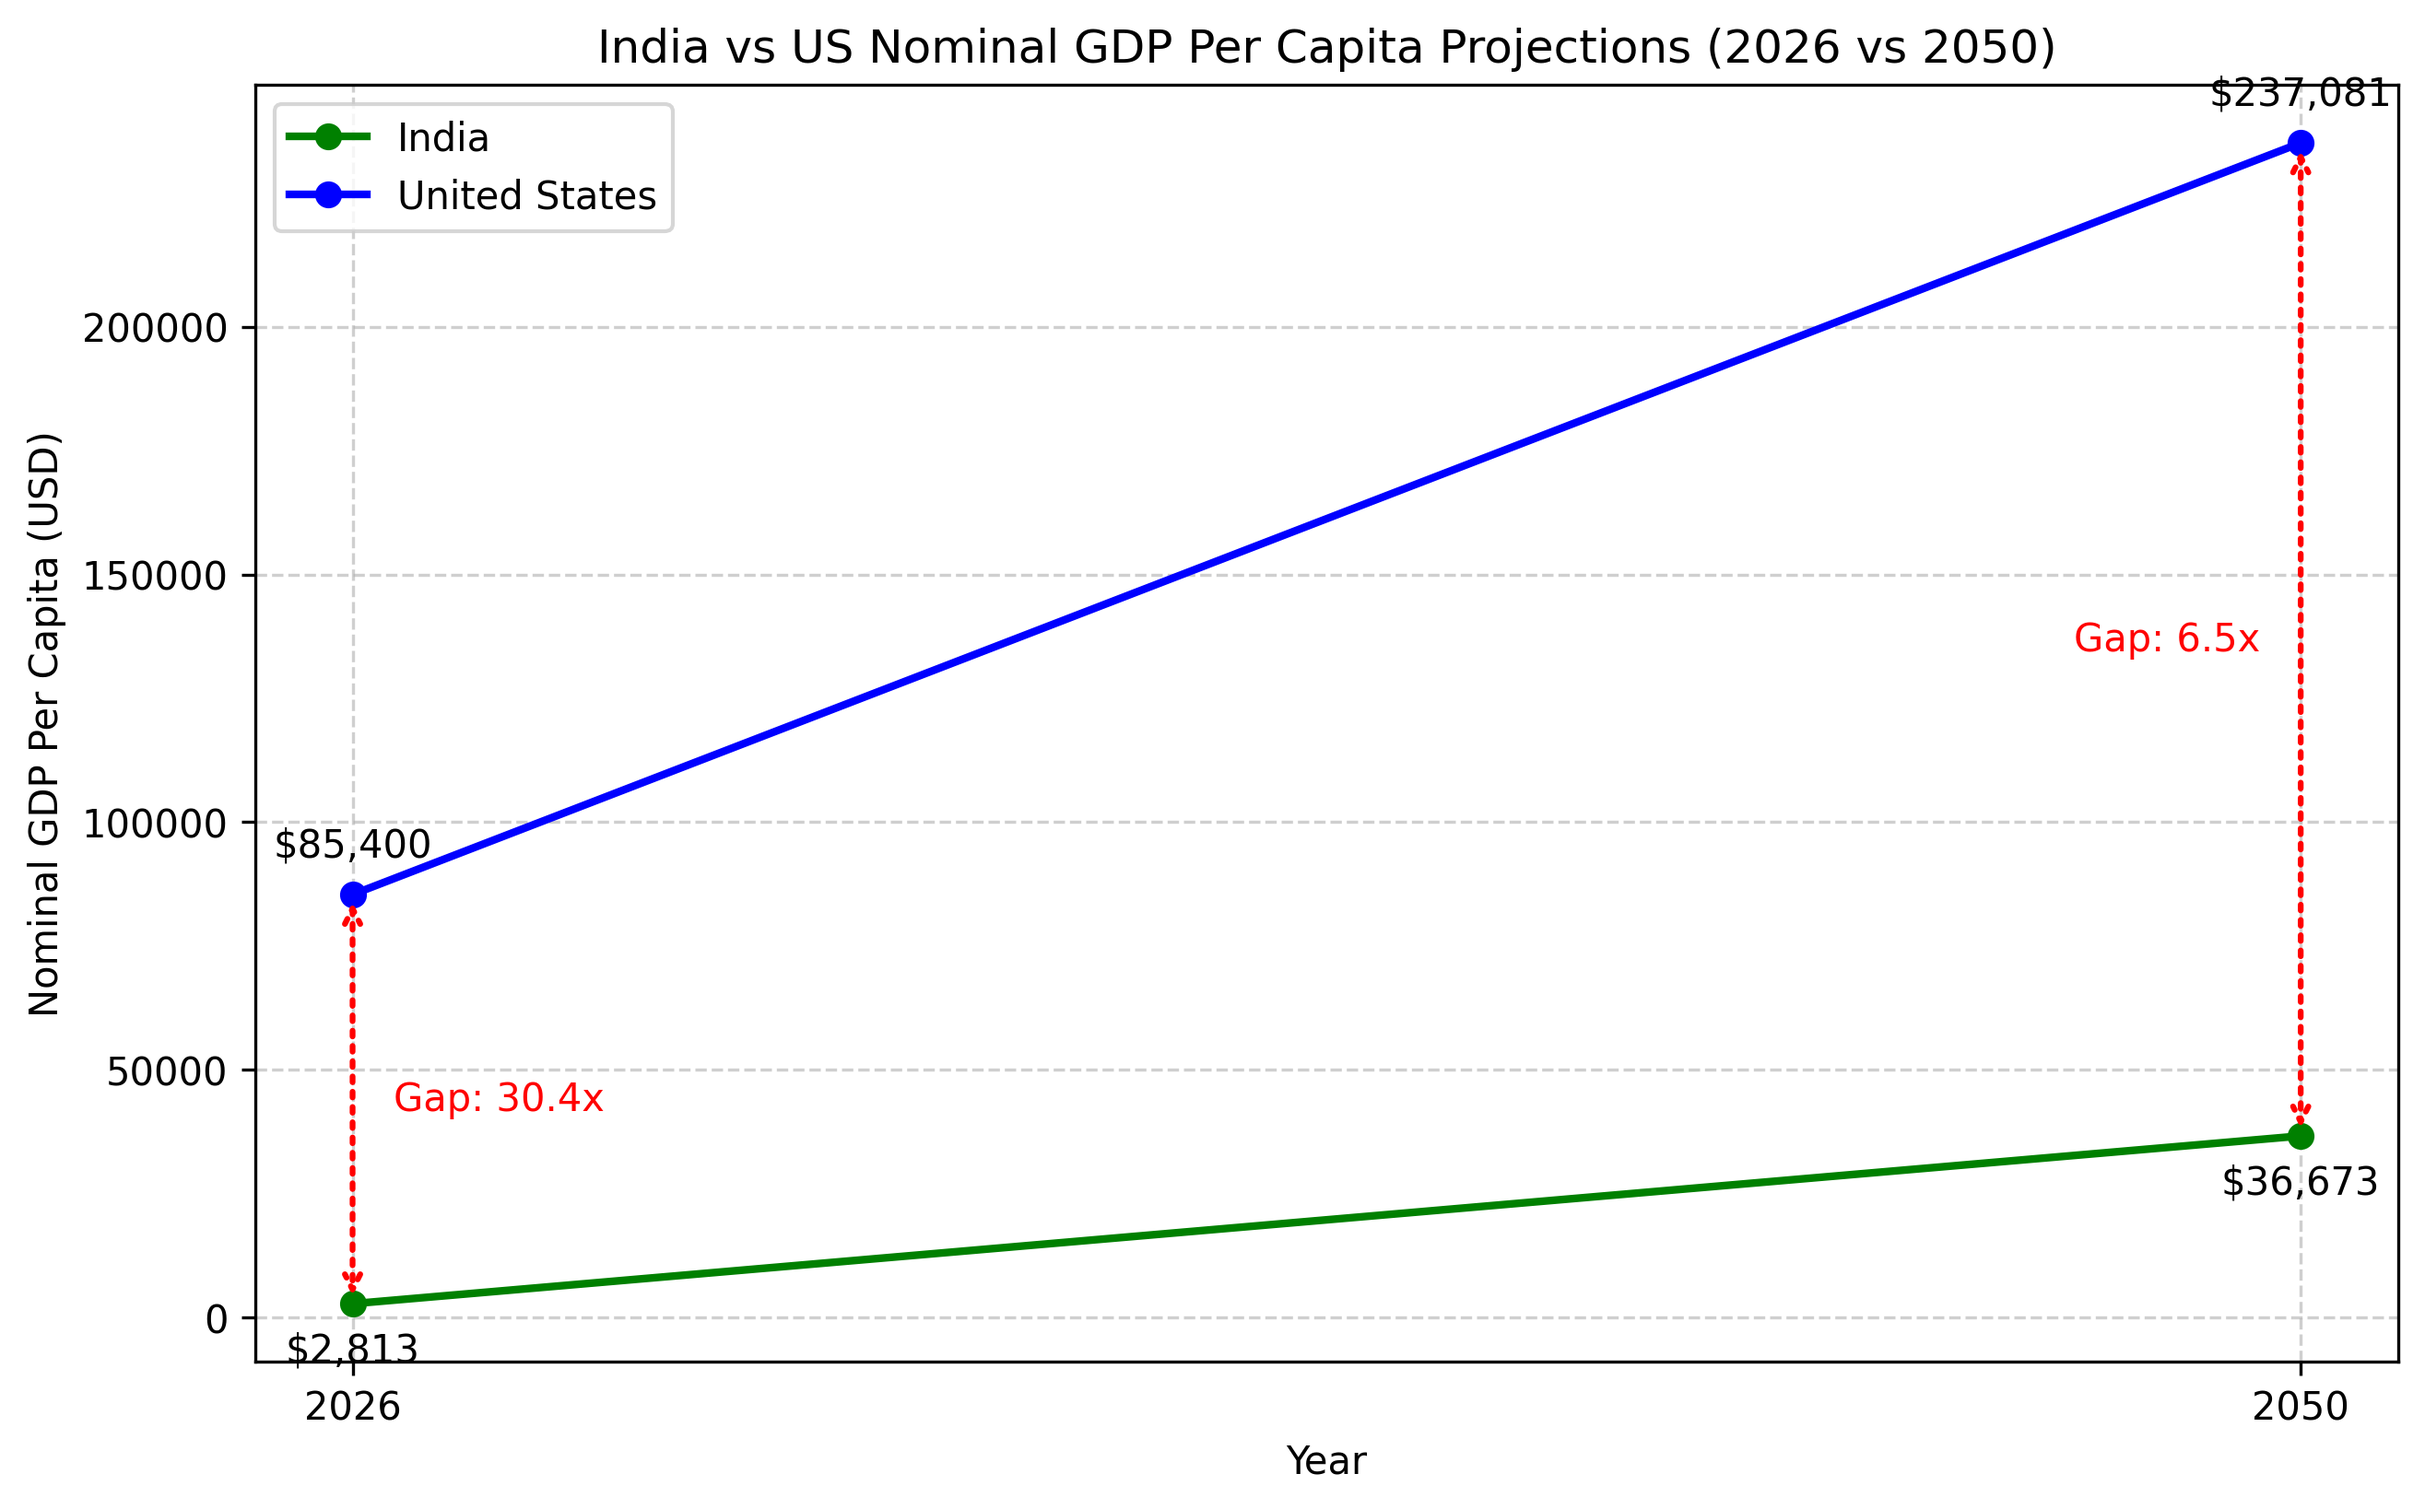
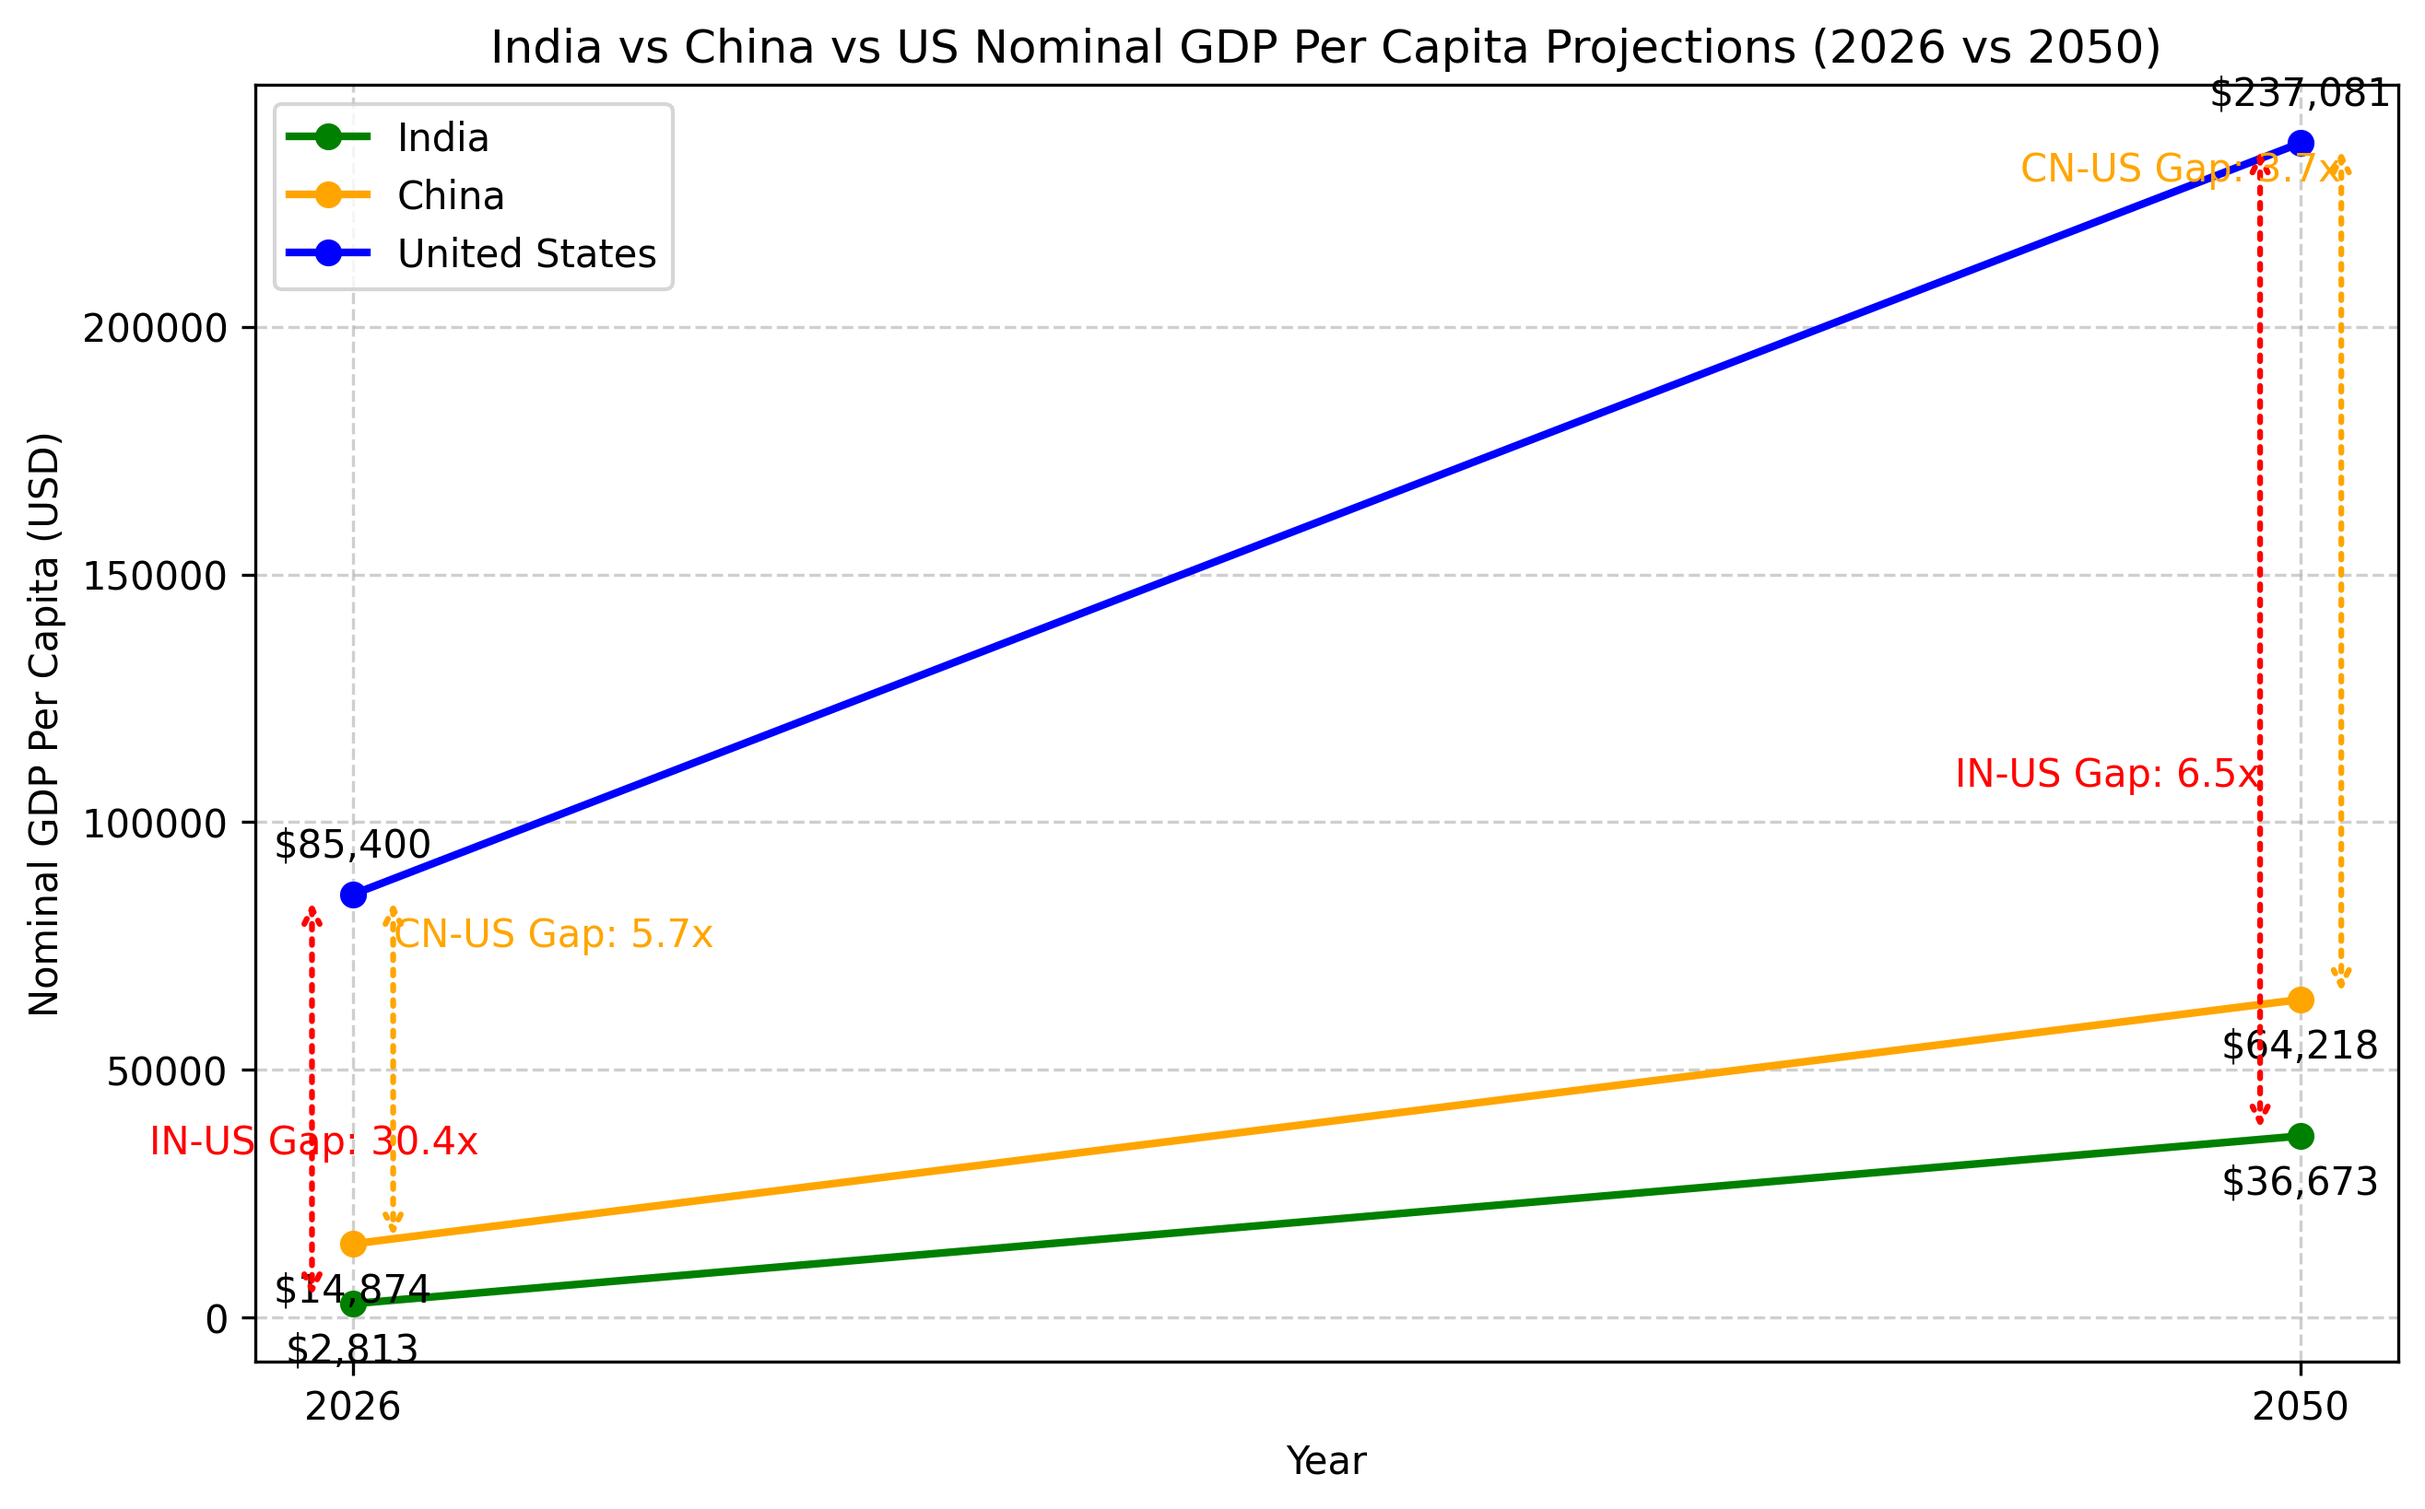
minor

diff --git a/plot_gdp.py b/plot_gdp.py
@@ -4,31 +4,47 @@ import os
 # Data
 years = [2026, 2050]
 india_gdp = [2813, 36673]
+china_gdp = [14874, 64218]
 us_gdp = [85400, 237081]
 
 plt.figure(figsize=(10, 6))
 plt.plot(years, india_gdp, marker='o', label='India', color='green', linewidth=2)
+plt.plot(years, china_gdp, marker='o', label='China', color='orange', linewidth=2)
 plt.plot(years, us_gdp, marker='o', label='United States', color='blue', linewidth=2)
 
 # Annotations
 for i, txt in enumerate(india_gdp):
     plt.annotate(f"${txt:,}", (years[i], india_gdp[i]), textcoords="offset points", xytext=(0,-15), ha='center')
 
+for i, txt in enumerate(china_gdp):
+    plt.annotate(f"${txt:,}", (years[i], china_gdp[i]), textcoords="offset points", xytext=(0,-15), ha='center')
+
 for i, txt in enumerate(us_gdp):
     plt.annotate(f"${txt:,}", (years[i], us_gdp[i]), textcoords="offset points", xytext=(0,10), ha='center')
 
-# Double headed arrows for the gap
-plt.annotate('', xy=(2026, india_gdp[0]), xytext=(2026, us_gdp[0]),
+# Double headed arrows for the gap (India - US)
+plt.annotate('', xy=(2026-0.5, india_gdp[0]), xytext=(2026-0.5, us_gdp[0]),
              arrowprops=dict(arrowstyle='<->', color='red', lw=1.5, ls=':'))
-gap_2026_multi = us_gdp[0] / india_gdp[0]
-plt.text(2026.5, (us_gdp[0] + india_gdp[0])/2, f"Gap: {gap_2026_multi:.1f}x", color='red', va='center')
+gap_2026_multi_ind = us_gdp[0] / india_gdp[0]
+plt.text(2026-2.5, (us_gdp[0] + india_gdp[0])/2.5, f"IN-US Gap: {gap_2026_multi_ind:.1f}x", color='red', va='center')
 
-plt.annotate('', xy=(2050, india_gdp[1]), xytext=(2050, us_gdp[1]),
+plt.annotate('', xy=(2050-0.5, india_gdp[1]), xytext=(2050-0.5, us_gdp[1]),
              arrowprops=dict(arrowstyle='<->', color='red', lw=1.5, ls=':'))
-gap_2050_multi = us_gdp[1] / india_gdp[1]
-plt.text(2049.5, (us_gdp[1] + india_gdp[1])/2, f"Gap: {gap_2050_multi:.1f}x", color='red', va='center', ha='right')
+gap_2050_multi_ind = us_gdp[1] / india_gdp[1]
+plt.text(2050-0.5, (us_gdp[1] + india_gdp[1])/2.5, f"IN-US Gap: {gap_2050_multi_ind:.1f}x", color='red', va='center', ha='right')
 
-plt.title("India vs US Nominal GDP Per Capita Projections (2026 vs 2050)")
+# Double headed arrows for the gap (China - US)
+plt.annotate('', xy=(2026+0.5, china_gdp[0]), xytext=(2026+0.5, us_gdp[0]),
+             arrowprops=dict(arrowstyle='<->', color='orange', lw=1.5, ls=':'))
+gap_2026_multi_chn = us_gdp[0] / china_gdp[0]
+plt.text(2026+0.5, (us_gdp[0] + china_gdp[0])/1.3, f"CN-US Gap: {gap_2026_multi_chn:.1f}x", color='orange', va='center')
+
+plt.annotate('', xy=(2050+0.5, china_gdp[1]), xytext=(2050+0.5, us_gdp[1]),
+             arrowprops=dict(arrowstyle='<->', color='orange', lw=1.5, ls=':'))
+gap_2050_multi_chn = us_gdp[1] / china_gdp[1]
+plt.text(2050+0.5, (us_gdp[1] + china_gdp[1])/1.3, f"CN-US Gap: {gap_2050_multi_chn:.1f}x", color='orange', va='center', ha='right')
+
+plt.title("India vs China vs US Nominal GDP Per Capita Projections (2026 vs 2050)")
 plt.xlabel("Year")
 plt.ylabel("Nominal GDP Per Capita (USD)")
 plt.xticks(years)
